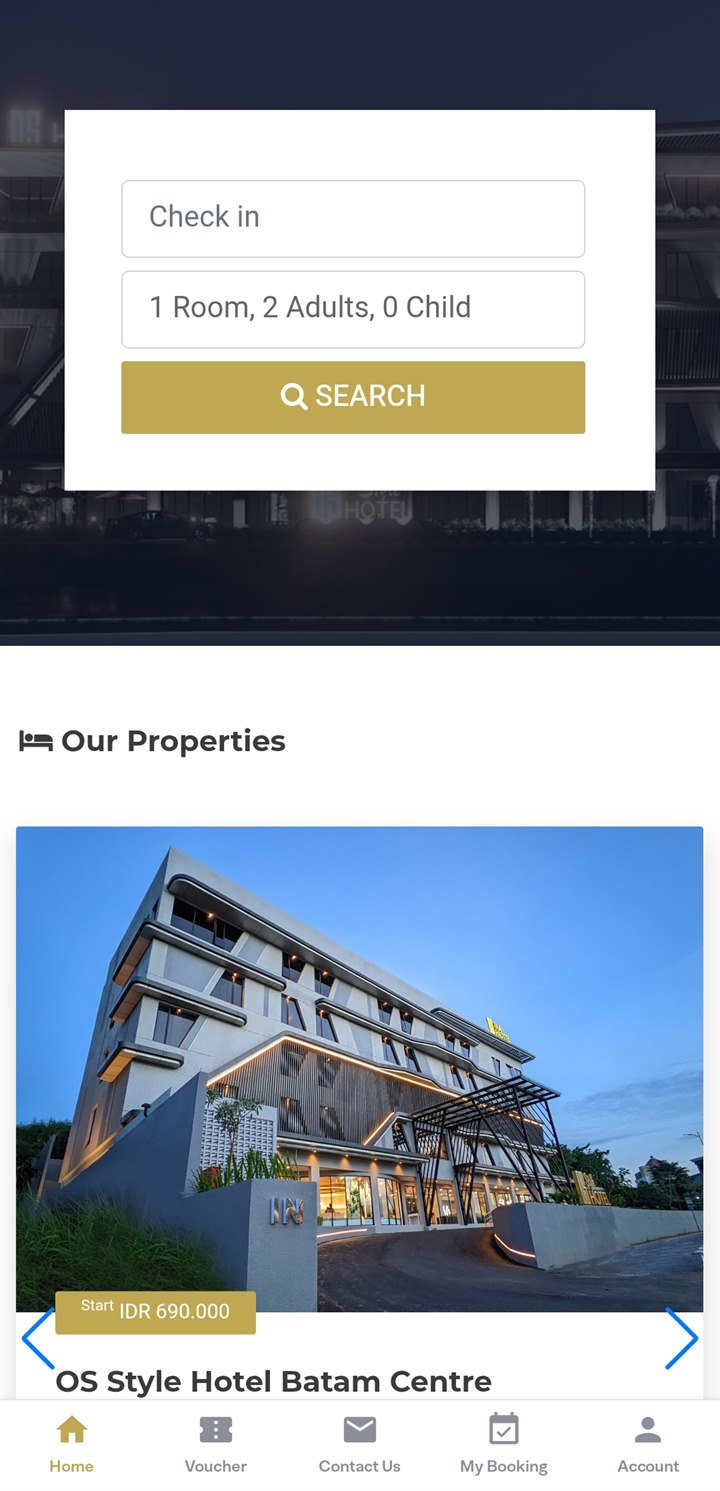
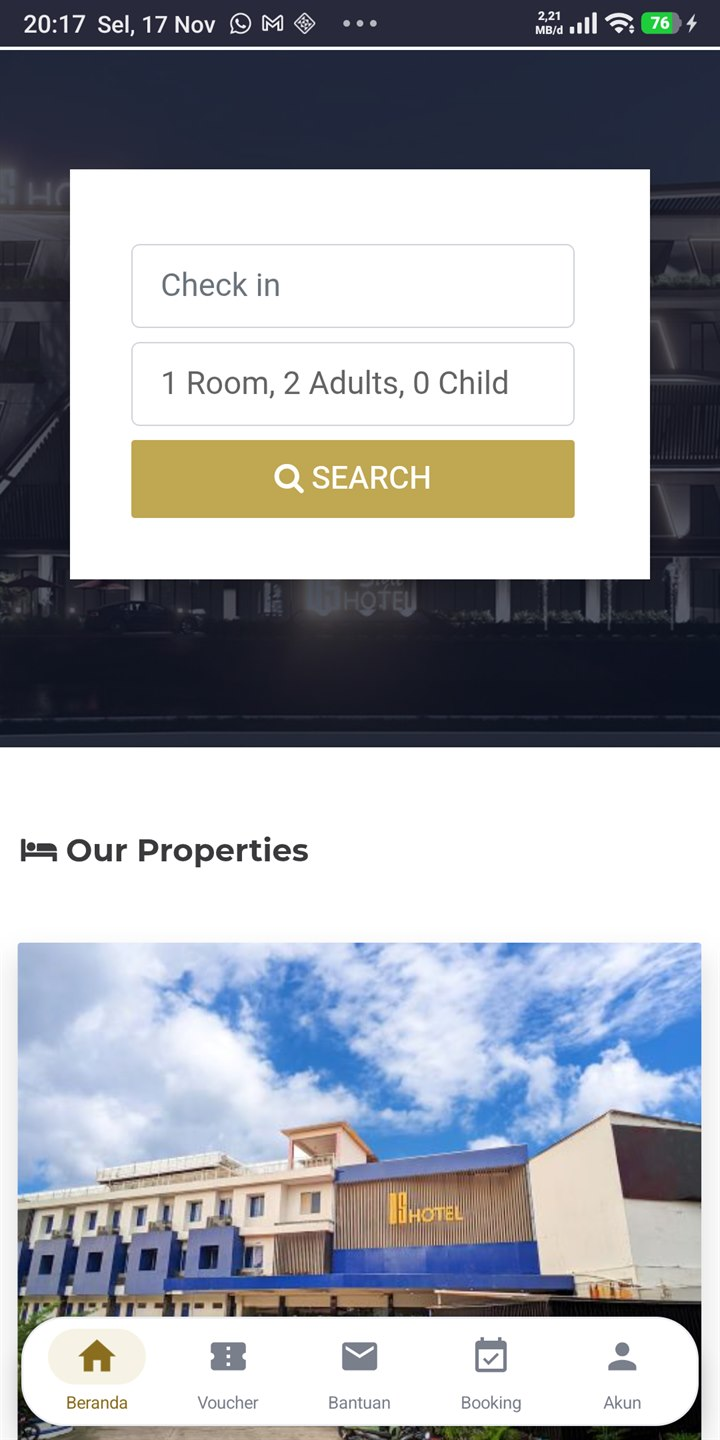
Perbarui screenshot 1.6.2 [skip ci]

diff --git a/store/UPLOAD-GUIDE.md b/store/UPLOAD-GUIDE.md
@@ -72,10 +72,10 @@ Dengan begitu, update dari GitHub maupun Play tetap kompatibel.
 |---|---|
 | `icon-512.png` | App icon (512×512) |
 | `feature-graphic.jpg` | Feature graphic (1024×500) |
-| `phone-1-home.jpg` | Screenshot HP 1 (1080×2160) |
-| `phone-2-fitur.jpg` | Screenshot HP 2 (1080×1920) |
-| `tablet-7-home.jpg` | Screenshot tablet 7" (1200×1920) |
-| `tablet-10-home.jpg` | Screenshot tablet 10" (1600×2560) |
+| `phone-1-home.jpg` | Screenshot HP 1 - Beranda (1080×2160) |
+| `phone-2-fitur.jpg` | Screenshot HP 2 - Voucher (1080×1920) |
+| `tablet-7-home.jpg` | Screenshot tablet 7" - Beranda (1200×1920) |
+| `tablet-10-home.jpg` | Screenshot tablet 10" - Beranda (1600×2560) |
 | `listing-id.md` | Judul, deskripsi singkat, deskripsi lengkap (ID) |
 | `listing-en.md` | Terjemahan Inggris |
 | `data-safety.md` | Jawaban formulir Data safety |
